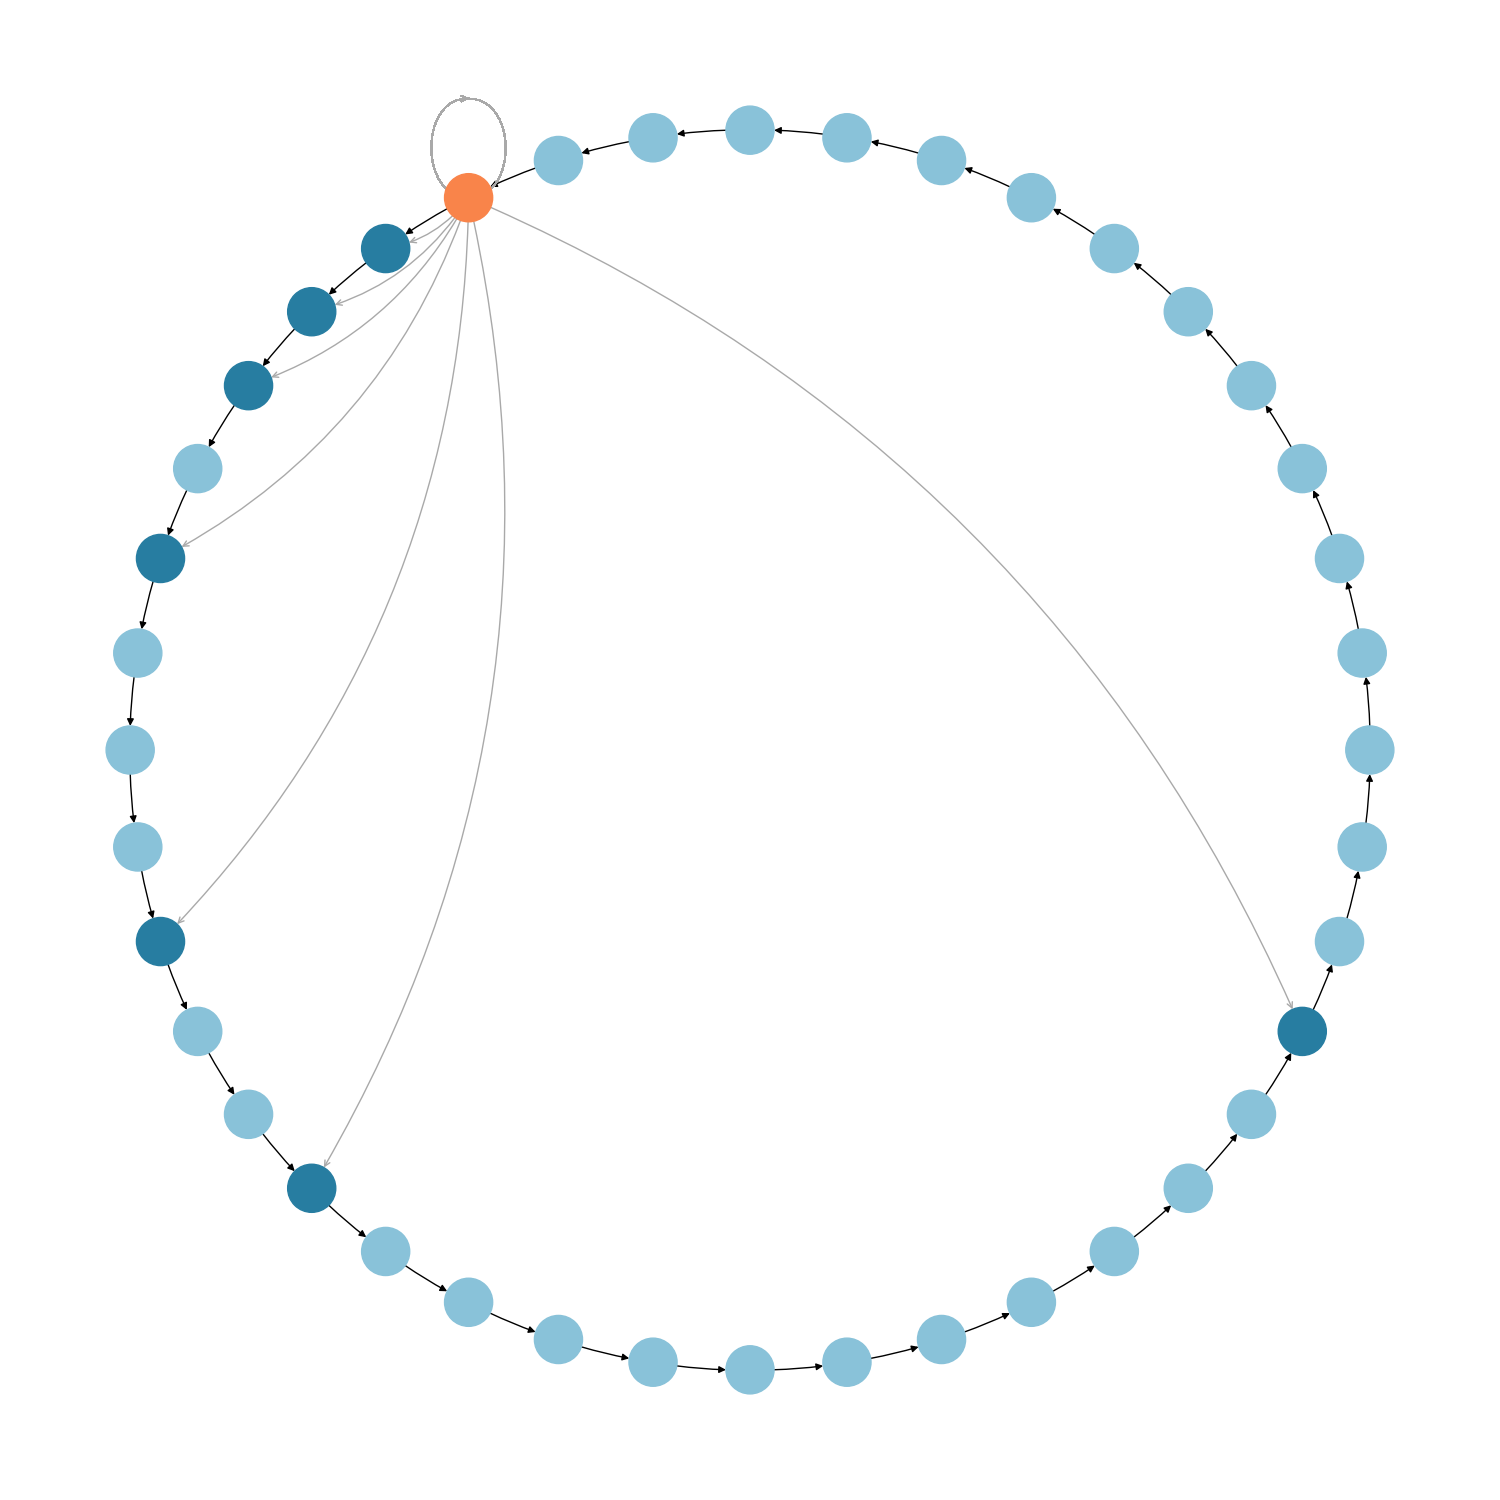
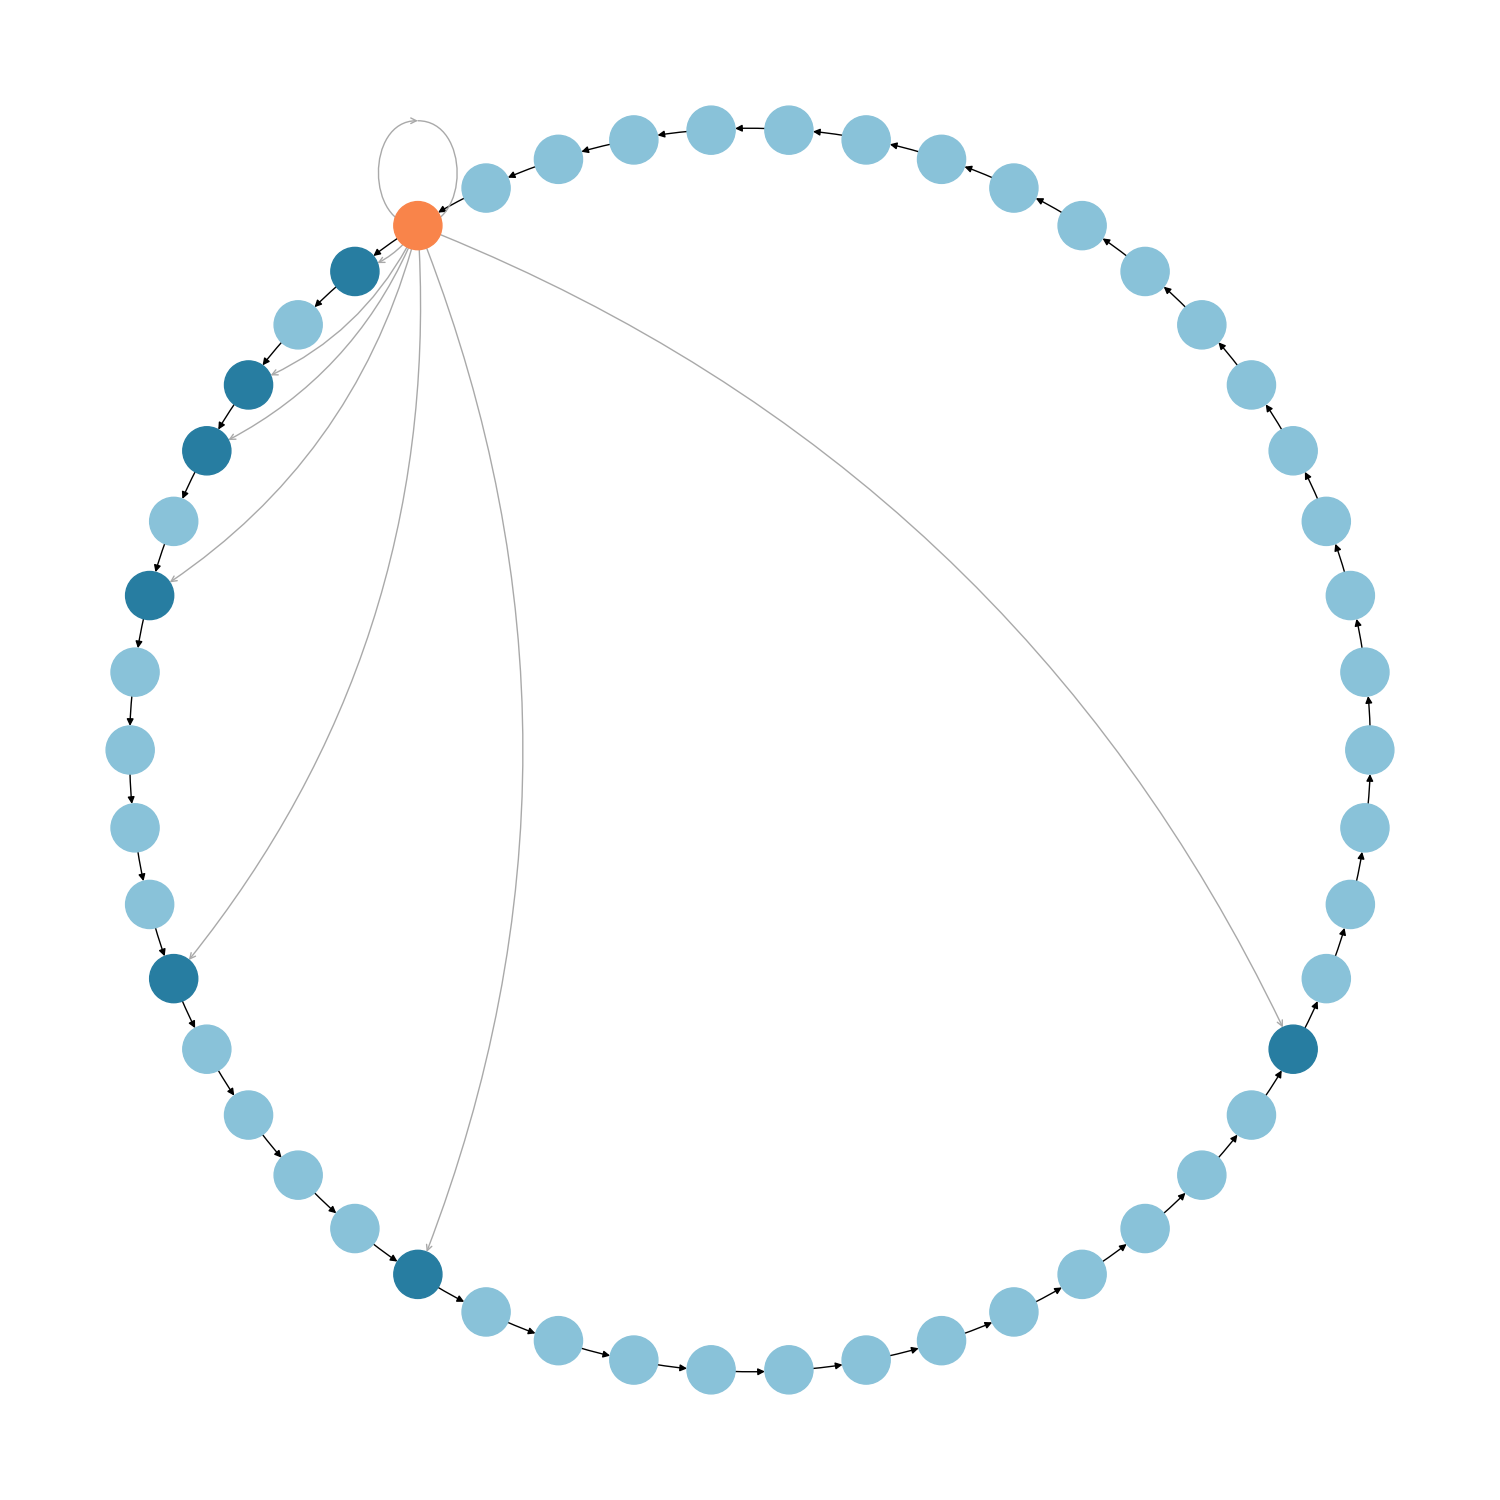
Updated images

diff --git a/src/kad/net_manager.py b/src/kad/net_manager.py
@@ -112,13 +112,13 @@ class KadNetManager(NetManager):
             if self.trie.out_degree(n) == 0:
                 ns.append(NetManager.NODE_SIZE)
             else:
-                ns.append(0.3)
+                ns.append(0)
 
         # draw trie
         plt.figure(figsize=(20, 12))
         pos = pydot_layout(self.trie, prog="dot")
         nx.draw(self.trie, pos, with_labels=False,
-                node_size=ns, node_color=colors)
+                node_size=ns, node_color=colors, arrowstyle="-")
         nx.draw_networkx_edge_labels(self.trie, pos,
                                      edge_labels=self.trie.get_labels(), rotate=False)
 
@@ -126,7 +126,7 @@ class KadNetManager(NetManager):
         nx.draw_networkx_edges(self.trie, pos, edgelist=buckets_edges, node_size=ns,
                                edge_color="darkgrey", arrowstyle="->", connectionstyle="arc3,rad=-0.2")
 
-        plt.savefig("kad.pdf", format="pdf", bbox_inches=0, pad_inches=0)
+        plt.savefig("kad.png", bbox_inches=0, pad_inches=0)
         plt.show()
 
     def prepare_updates(self) -> List[simpy.Process]:

diff --git a/src/chord/net_manager.py b/src/chord/net_manager.py
@@ -21,7 +21,7 @@ class ChordNetManager(NetManager):
         node = cast(ChordNode, node)
         graph_edges = [(u.id, u.succ.id)
                        for u in sorted(self.nodes, key=lambda n: n.id)]
-        ft_edges = [(node.id, finger.id) for finger in node.ft]
+        ft_edges = set([(node.id, finger.id) for finger in node.ft])
         G = nx.DiGraph()
         G.add_edges_from(graph_edges)
         # get nodes color
